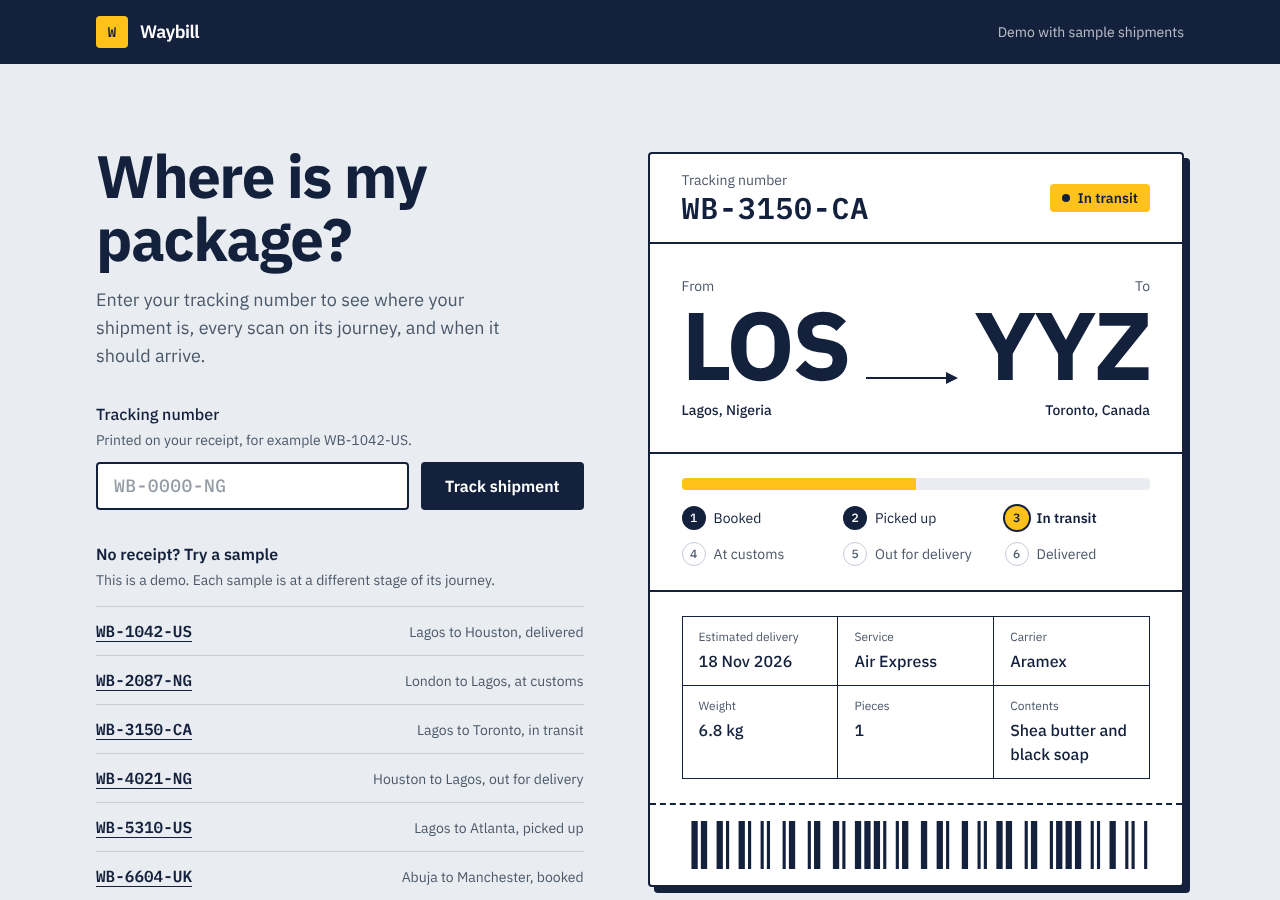
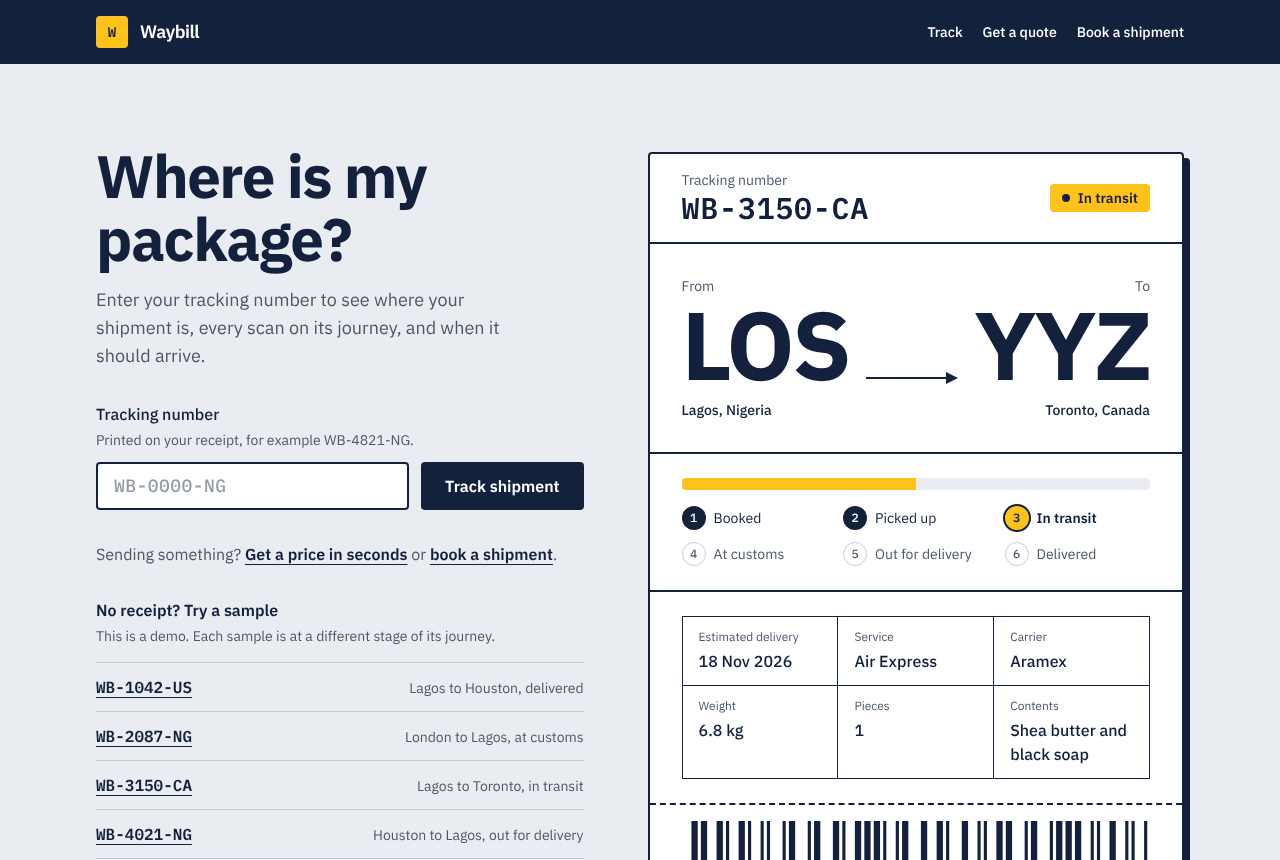
Finish Stage 6: decisions write-up, fresh screenshots and README tidy
Claude-Session: https://claude.ai/code/session_01Vmxic3mKuLojmdxFJgTNAt

diff --git a/README.md b/README.md
@@ -2,16 +2,21 @@
 
 Shipment tracking and payments for cross-border logistics between Nigeria, the US, the UK and Canada.
 
-I built Waybill as a portfolio project, drawing on how we run operations at eShopAfrica, an international logistics company in Lagos. Customers there ask one question more than any other: _where is my package?_ Waybill answers it, and over the next stages it grows into the full flow: booking, quoting, admin tools and paying with Paystack.
+I built Waybill as a portfolio project, drawing on how we run operations at eShopAfrica, an international logistics company in Lagos. Customers there ask one question more than any other: _where is my package?_ Waybill answers it, and covers the flow around it: quoting, booking, paying with Paystack and the admin tools staff use to move a parcel along.
 
 **Live demo:** [waybill-dusky.vercel.app](https://waybill-dusky.vercel.app)
-**Status:** Stage 5 of 6 complete. Customers price, book and pay online with Paystack (test mode); staff turn paid bookings into tracked shipments. All data and prices are invented.
+**Status:** Complete. Customers price, book and pay online with Paystack (test mode); staff turn paid bookings into tracked shipments. Prices are demo rates.
+**Why it is built this way:** [the decisions behind Waybill](docs/DECISIONS.md)
 
 ![Tracking page on desktop](docs/screenshots/desktop-tracking.png)
 
+| Quote calculator                                        | Tracking on a phone                                          | Booking price on a phone                                               |
+| ------------------------------------------------------- | ------------------------------------------------------------ | ---------------------------------------------------------------------- |
+| ![Quote calculator](docs/screenshots/desktop-quote.png) | ![Tracking on a phone](docs/screenshots/mobile-tracking.png) | ![Booking price on a phone](docs/screenshots/mobile-booking-price.png) |
+
 ## Try it
 
-Run the project without a database and these sample tracking numbers work, each at a different stage of its journey. The live demo uses only real bookings, so to see tracking there, book a shipment and pay with a Paystack test card.
+On the live demo, track `WB-6296-UK` (a delivered test shipment), or book one yourself and pay on Paystack's test checkout. Run the project without a database and these sample tracking numbers work instead, each at a different stage of its journey.
 
 | Tracking number | Route               | Stage            |
 | --------------- | ------------------- | ---------------- |
@@ -83,6 +88,55 @@ erDiagram
 
 Admins are added with SQL only, so there is no API an attacker could use to make themselves one. `is_admin()` and `get_shipment()` are `security definer` functions with a locked `search_path`, and tables are not exposed to the Data API unless a grant says so.
 
+## What Stage 3 adds
+
+- **An admin dashboard** at `/admin`: every shipment, with search by tracking number, city or hub code, and a filter by status.
+- **Create a shipment** at `/admin/shipments/new`. Waybill generates the tracking number (it ends in the destination country, like `WB-4821-NG`) and posts the first Booked scan in the same database transaction.
+- **A page per shipment** to post tracking updates, edit the package details, remove a scan posted by mistake, or cancel the shipment.
+- **Instant public updates.** Each change calls `updateTag` for that shipment, so the cached tracking page is fresh on the next visit.
+- **Real routes.** Air ships from Nigeria or China to any of 240+ countries; sea freight runs from Nigeria to the United States, Canada and the United Kingdom. The forms only offer valid choices, and the server checks again.
+- **Local time everywhere.** The admin picks the place of a scan; countries with several time zones (the US, Canada, China...) ask which one. The scan is stored as UTC plus that place's offset on that date, daylight saving included.
+
+### Rules the database enforces
+
+The rules live in Postgres triggers, not just the forms, so they hold for every client: the dashboard, the SQL editor or a script.
+
+| Rule                                                                    | Why                                                                        |
+| ----------------------------------------------------------------------- | -------------------------------------------------------------------------- |
+| Stages only move forward; in transit and at customs may repeat          | A parcel can pass several hubs, but never goes from customs back to pickup |
+| Scans are in time order and not in the future                           | The timeline a customer reads must make sense                              |
+| Delivered and cancelled shipments take no new scans                     | Their story is finished                                                    |
+| Scans cannot be edited; only the latest can be removed, never the first | Mistakes are undone without rewriting history                              |
+| The route, service and tracking number are fixed after booking          | Customers may already have the number                                      |
+| Shipments are cancelled, never deleted                                  | There is always a record                                                   |
+
+Rule violations raise a plain-English message with SQLSTATE `P0001`, which the dashboard shows as it is. [`supabase/tests/rules.sql`](supabase/tests/rules.sql) checks all of them against a live database and undoes every change.
+
+## What Stage 4 adds
+
+- **A quote calculator** at `/quote`. Pick the service, where it ships from and to, the weight and, optionally, the box size. The price and its breakdown update as you type.
+- **A booking form** at `/book`, prefilled from the quote. It collects the sender, receiver and package details and returns a booking reference.
+- **Bookings in the admin dashboard.** Staff review each booking, then create the shipment from it in one step (tracking number and first scan included) or decline it with a reason.
+
+### How prices work
+
+| Rule                          | Detail                                                                                                                                                                                   |
+| ----------------------------- | ---------------------------------------------------------------------------------------------------------------------------------------------------------------------------------------- |
+| Per kilo, everything in naira | Air and sea alike, so Paystack can charge every booking (Stage 5)                                                                                                                        |
+| Zones                         | UK and Ireland, Europe, US and Canada, Africa, Asia, rest of world. Each country's zone comes from its main time zone region, so all 240+ countries are covered without a hand-kept list |
+| Chargeable weight             | The bigger of the real weight and the box size (cm³ / 5,000 for air, / 6,000 for sea), rounded up to the next half kilo. Minimum 1 kg by air, 10 kg by sea                               |
+| Getting it to us              | Free drop-off at the Lagos office in Ojota (or the Guangzhou warehouse), or pickup for a fee                                                                                             |
+| Extras                        | Handling fee, then 7.5% VAT on the total                                                                                                                                                 |
+
+The rate card lives in [`src/lib/pricing/rate-card.ts`](src/lib/pricing/rate-card.ts) and its numbers are made up for this demo. `calculateQuote()` is a pure function: the browser runs it to show the price live, and the server runs it again before saving. The server never takes a price from the browser, and the admin page recomputes every booking and flags any that do not match.
+
+### Keeping bookings safe
+
+- The public creates bookings only through `submit_booking()`, a database function that checks every field and allows at most five bookings an hour per email address.
+- Bookings hold names, phone numbers and addresses, so only admins can read them. Admins can move a booking on but cannot rewrite what the customer sent.
+- The form has a hidden honeypot field and rejects submissions sent back faster than a person could fill it in.
+- [`supabase/tests/bookings.sql`](supabase/tests/bookings.sql) checks these rules against a live database and undoes every change.
+
 ## What Stage 5 adds
 
 - **Pay online with Paystack.** After booking, the customer pays on Paystack's checkout by card, bank transfer or USSD. The demo runs in Paystack **test mode**, so only test cards work and no real money moves.
@@ -123,55 +177,6 @@ sequenceDiagram
 - **Declined cards are reported.** Paystack only notifies on success, so when a booking page loads with an attempt still open, Waybill asks Paystack what happened and tells the customer their card was declined.
 - [`supabase/tests/payments.sql`](supabase/tests/payments.sql) and [`supabase/tests/refunds.sql`](supabase/tests/refunds.sql) check these rules against a live database and undo every change.
 
-## What Stage 4 adds
-
-- **A quote calculator** at `/quote`. Pick the service, where it ships from and to, the weight and, optionally, the box size. The price and its breakdown update as you type.
-- **A booking form** at `/book`, prefilled from the quote. It collects the sender, receiver and package details and returns a booking reference.
-- **Bookings in the admin dashboard.** Staff review each booking, then create the shipment from it in one step (tracking number and first scan included) or decline it with a reason.
-
-### How prices work
-
-| Rule                          | Detail                                                                                                                                                                                   |
-| ----------------------------- | ---------------------------------------------------------------------------------------------------------------------------------------------------------------------------------------- |
-| Per kilo, everything in naira | Air and sea alike, so Paystack can charge every booking (Stage 5)                                                                                                                        |
-| Zones                         | UK and Ireland, Europe, US and Canada, Africa, Asia, rest of world. Each country's zone comes from its main time zone region, so all 240+ countries are covered without a hand-kept list |
-| Chargeable weight             | The bigger of the real weight and the box size (cm³ / 5,000 for air, / 6,000 for sea), rounded up to the next half kilo. Minimum 1 kg by air, 10 kg by sea                               |
-| Getting it to us              | Free drop-off at the Lagos office in Ojota (or the Guangzhou warehouse), or pickup for a fee                                                                                             |
-| Extras                        | Handling fee, then 7.5% VAT on the total                                                                                                                                                 |
-
-The rate card lives in [`src/lib/pricing/rate-card.ts`](src/lib/pricing/rate-card.ts) and its numbers are made up for this demo. `calculateQuote()` is a pure function: the browser runs it to show the price live, and the server runs it again before saving. The server never takes a price from the browser, and the admin page recomputes every booking and flags any that do not match.
-
-### Keeping bookings safe
-
-- The public creates bookings only through `submit_booking()`, a database function that checks every field and allows at most five bookings an hour per email address.
-- Bookings hold names, phone numbers and addresses, so only admins can read them. Admins can move a booking on but cannot rewrite what the customer sent.
-- The form has a hidden honeypot field and rejects submissions sent back faster than a person could fill it in.
-- [`supabase/tests/bookings.sql`](supabase/tests/bookings.sql) checks these rules against a live database and undoes every change.
-
-## What Stage 3 adds
-
-- **An admin dashboard** at `/admin`: every shipment, with search by tracking number, city or hub code, and a filter by status.
-- **Create a shipment** at `/admin/shipments/new`. Waybill generates the tracking number (it ends in the destination country, like `WB-4821-NG`) and posts the first Booked scan in the same database transaction.
-- **A page per shipment** to post tracking updates, edit the package details, remove a scan posted by mistake, or cancel the shipment.
-- **Instant public updates.** Each change calls `updateTag` for that shipment, so the cached tracking page is fresh on the next visit.
-- **Real routes.** Air ships from Nigeria or China to any of 240+ countries; sea freight runs from Nigeria to the United States, Canada and the United Kingdom. The forms only offer valid choices, and the server checks again.
-- **Local time everywhere.** The admin picks the place of a scan; countries with several time zones (the US, Canada, China...) ask which one. The scan is stored as UTC plus that place's offset on that date, daylight saving included.
-
-### Rules the database enforces
-
-The rules live in Postgres triggers, not just the forms, so they hold for every client: the dashboard, the SQL editor or a script.
-
-| Rule                                                                    | Why                                                                        |
-| ----------------------------------------------------------------------- | -------------------------------------------------------------------------- |
-| Stages only move forward; in transit and at customs may repeat          | A parcel can pass several hubs, but never goes from customs back to pickup |
-| Scans are in time order and not in the future                           | The timeline a customer reads must make sense                              |
-| Delivered and cancelled shipments take no new scans                     | Their story is finished                                                    |
-| Scans cannot be edited; only the latest can be removed, never the first | Mistakes are undone without rewriting history                              |
-| The route, service and tracking number are fixed after booking          | Customers may already have the number                                      |
-| Shipments are cancelled, never deleted                                  | There is always a record                                                   |
-
-Rule violations raise a plain-English message with SQLSTATE `P0001`, which the dashboard shows as it is. [`supabase/tests/rules.sql`](supabase/tests/rules.sql) checks all of them against a live database and undoes every change.
-
 ## Tech stack
 
 | Area      | Choice                                                       |
@@ -180,7 +185,8 @@ Rule violations raise a plain-English message with SQLSTATE `P0001`, which the d
 | Database  | Supabase: PostgreSQL, Row Level Security, Auth               |
 | Language  | TypeScript, strict mode                                      |
 | Styling   | Tailwind CSS 4, self-hosted IBM Plex fonts                   |
-| Testing   | Vitest and React Testing Library                             |
+| Payments  | Paystack (test mode): hosted checkout, verification, webhook |
+| Testing   | Vitest, React Testing Library, Playwright, SQL rule checks   |
 | Quality   | ESLint, Prettier, GitHub Actions CI                          |
 | Hosting   | Vercel                                                       |
 
@@ -263,6 +269,9 @@ src/
   lib/supabase/           Supabase clients for the signed-in user and the public
   fonts/                  Self-hosted IBM Plex Sans and Mono
   proxy.ts                Refreshes the session and guards /admin
+e2e/
+  sample/                 Browser tests on the sample data, run on every push
+  live/                   Read-only checks on the deployed site, plus the opt-in full journey
 supabase/
   migrations/             Schema, grants, Row Level Security and the tracking rules
   tests/                  SQL checks for the tracking, booking and payment rules
@@ -273,18 +282,18 @@ The tracking logic, route rules and time zone handling are plain TypeScript with
 
 ## Roadmap
 
-| Stage | Scope                                                              | Status                      |
-| ----- | ------------------------------------------------------------------ | --------------------------- |
-| 1     | Project setup and public tracking page                             | Done                        |
-| 2     | Supabase database, Row Level Security and admin login              | Done                        |
-| 3     | Admin dashboard to create shipments and post tracking updates      | Done                        |
-| 4     | Booking form and a quote calculator by weight, route and service   | Done                        |
-| 5     | Paystack test payments with server-side verification and a webhook | Done                        |
-| 6     | End-to-end tests, final deploy and a write-up of the decisions     | Partly done: tests in place |
+| Stage | Scope                                                              | Status |
+| ----- | ------------------------------------------------------------------ | ------ |
+| 1     | Project setup and public tracking page                             | Done   |
+| 2     | Supabase database, Row Level Security and admin login              | Done   |
+| 3     | Admin dashboard to create shipments and post tracking updates      | Done   |
+| 4     | Booking form and a quote calculator by weight, route and service   | Done   |
+| 5     | Paystack test payments with server-side verification and a webhook | Done   |
+| 6     | End-to-end tests, final deploy and a write-up of the decisions     | Done   |
 
 ## About
 
-Built by [Adewale Oretuga](https://adewale-oretuga.netlify.app), a frontend engineer in Lagos working with React, Next.js and TypeScript. All shipments, names and tracking numbers in this project are invented.
+Built by [Adewale Oretuga](https://adewale-oretuga.netlify.app), a frontend engineer in Lagos working with React, Next.js and TypeScript. The sample shipments and all prices are invented, and the live demo takes only Paystack test payments.
 
 ## Licence
 

diff --git a/docs/DECISIONS.md b/docs/DECISIONS.md
@@ -1,0 +1,85 @@
+# The decisions behind Waybill
+
+The [README](../README.md) says what Waybill does. This page explains why it works that way: the choices I made, what each one cost, and the bugs that changed my mind along the way.
+
+## Where it comes from
+
+I manage operations at eShopAfrica, an international logistics company in Ojota, Lagos. Two things shaped this project more than anything else.
+
+First, the question we hear most is "where is my package?". Customers ask it on WhatsApp, on the phone and at the counter, often for a parcel that is moving exactly as planned. A clear tracking page answers it before anyone has to ask.
+
+Second, most of our customers drop parcels off in person, and many would rather not book online. So Waybill is not built around a slick checkout. It's built around the staff who turn a booking into a shipment and post every scan along the way, with the customer pages as a clear window into that work.
+
+## The tracking page
+
+**It looks like a printed waybill.** Customers already know the paper label: tracking number, big airport codes, boxes of facts. Copying that layout made the page familiar to people who have never used a tracking site.
+
+**Mobile first, for mid-range Android phones.** Most customers track on a phone, often on a slow connection. Every screen was designed at 360px first. The pages are server-rendered and cached, so a phone gets finished HTML instead of a loading spinner.
+
+**It accepts the number the way people type it.** `wb 1042 us`, `WB1042US` and `WB-1042-US` all open the same page, which then has one canonical address. Telling a customer their number is "invalid" because of a missing dash is our fault, not theirs.
+
+**Times are local to the scan.** A parcel scanned at 2:47 pm in Houston should say 2:47 pm, not the time in Lagos. Each scan is stored as UTC plus the offset of the place it happened on that date. That's one more column, but daylight saving and countries with several time zones (the US, Canada, Russia) come out right. Admins pick the city, and if the country has more than one time zone, they pick which.
+
+## The database does the enforcing
+
+**The rules live in Postgres, not just the forms.** Stages only move forward. Scans can't be in the future or out of order. Delivered and cancelled shipments are closed. Shipments are cancelled, never deleted. The admin forms check all of this for friendly messages, but the database checks it again in triggers, so the rules hold for any client: the dashboard, the SQL editor or a future script. The cost is writing each rule twice. The benefit is that no bug in the app can create a timeline a customer can't make sense of.
+
+**Errors are written for people.** Each rule raises a plain-English message with SQLSTATE `P0001`, and the dashboard shows it word for word. So "Delivered shipments cannot take new scans" comes straight from the database, with no mapping table to keep in sync.
+
+**Nobody can list the shipments.** The public can't read any table. The only public way in is one function that returns a single shipment for an exact tracking number. Tracking numbers are short, so letting anyone page through them would leak every customer's route and contents.
+
+**Admins are added with SQL only.** There's no endpoint that makes someone an admin, so there's no endpoint to attack.
+
+## Prices
+
+**The price is always worked out on the server.** `calculateQuote()` is a pure function. The browser runs it to show the price as you type, and the server runs it again before saving a booking and again before charging. A price sent from the browser is never trusted. If the stored booking no longer matches what the customer was shown, Waybill refuses to charge rather than charge a different amount.
+
+**Everything is in naira.** Paystack charges Nigerian accounts in naira, so every booking is priced in naira, including air freight from China. A real business would want the sender's currency for China shipments. I chose one currency that the payment provider handles end to end over a conversion step this demo couldn't do honestly.
+
+**Zones come from time zone data, not a hand-kept list.** Air ships to over 240 countries. Rather than type each one into a zone, Waybill uses the region of each country's main time zone (Europe, Africa, Asia and so on), with the UK, Ireland, the US and Canada handled on their own. New countries fall into a sensible zone automatically.
+
+## Payments
+
+**Two signals, both verified.** Paystack reports a payment in two ways: by redirecting the customer back, and by calling a webhook. Waybill trusts neither on its own. The redirect only says which transaction to ask about. The webhook's HMAC-SHA512 signature is checked on the raw body, and then Waybill asks Paystack's API anyway. Both paths record the result idempotently, so whichever arrives second changes nothing. The webhook is what saves a payment when a customer closes the tab before coming back.
+
+**A server key instead of the master key.** The simple route would be to give the app Supabase's service role key, which bypasses all security. I didn't want one leaked environment variable to expose every customer's details. So the app uses the public key like everyone else, and the payment functions also demand a separate server key that only Vercel holds. The database keeps only its SHA-256 hash, in a schema the public API can't see. It's more setup, but the blast radius of a leak is much smaller.
+
+**Declined cards are noticed.** Paystack only calls the webhook when a payment succeeds. Without extra work, a declined card would leave the customer staring at an unchanged page. So when a booking page loads with a payment attempt still open, Waybill asks Paystack what happened and tells the customer their card was declined and they haven't been charged.
+
+**Money is never lost track of.** If money arrives for a booking that no longer wants it, or a paid shipment is cancelled, the payment is kept and flagged "Refund needed" until staff mark it refunded. That covers a declined booking, a second payment, or a checkout tab left open overnight. Logistics businesses lose real money to refunds nobody remembered to make.
+
+**The health check reports key shapes, never keys.** While setting up I pasted two keys into each other's boxes in Vercel. The fix was a status endpoint that reports each key's length, its first four characters and whether it has stray spaces, but never the key itself. It found the mistake in seconds, and it now also tells the tests which commit is live.
+
+## Bugs that changed the code
+
+Testing every flow by hand and then with automated tests turned up bugs I wouldn't have predicted. These are the ones that taught me something.
+
+**Selects went blank after a form error.** In React 19, a form action resets the form after it runs. A controlled select on a page you reached by client-side navigation came back empty, so the country choice vanished after a failed submit. I now submit through a small `submitWithoutReset` helper that calls the action inside a transition instead.
+
+**A helper in the wrong file broke two pages.** A function the server needed lived in a file marked `"use client"`, so `/quote` and `/book` failed on the server while working fine in development. Since then I start the production build locally before every push.
+
+**The database returned an object where I expected a list.** Supabase returns a related row as an object, not an array, when the link is one to one. Every booking has at most one shipment, so a warning about a changed weight never appeared. Typing the result as either shape fixed it, and a test now covers both.
+
+**Closing Paystack lost the booking.** A customer who paid straight from the booking form and then clicked Close on Paystack landed back on an empty booking form. Their booking was saved, but it looked lost, and they might have booked twice. Paystack accepts a `cancel_action` address, so Close now always returns to the customer's own booking page.
+
+**The server and the browser disagreed about Hong Kong.** The browser tests failed on any uncaught error in the page, and that caught a hydration error on the quote and booking pages. Node's built-in country names call Hong Kong "Hong Kong SAR China", while Chrome calls it "Hong Kong". The same went for Macao, Palestine and the Falkland Islands. Because the server-rendered list didn't match, React threw away the server HTML and rebuilt both pages in every visitor's browser. The fix was a fixed table of country names that renders the same everywhere. Scans saved with the old names still work.
+
+## How it's tested
+
+The tests are layered so each layer checks what it's best at.
+
+- **Unit and component tests** (Vitest and React Testing Library, about 115) cover the pure logic: tracking number parsing, time zone conversion, every pricing rule, form validation, and Paystack signature checks.
+- **SQL rule checks** in [`supabase/tests`](../supabase/tests) run against the real database inside a transaction that is rolled back. They try the moves that must fail, such as a scan in the future, paying twice or paying the wrong amount, and confirm the database refuses them.
+- **Browser tests** (Playwright) run on every push against the production build with sample data, at desktop and phone sizes. After every deploy and every morning, a second set checks the live site without saving anything. Among other things, it confirms Paystack is still in test mode, so a live key on the demo would fail loudly.
+- **The full customer journey** (quote, book, pay on Paystack's test checkout, then the paid page) runs on the live site only when started by hand, because each run saves a real test booking.
+
+Writing tests for a database you share with real data takes care. The live checks only read, and the one test that writes is opt-in and clearly labelled.
+
+## What I would do next
+
+- **Notify customers on WhatsApp.** That's where our customers already are, and a message at each stage would answer "where is my package?" before it's asked.
+- **Pull scans from carriers.** Today staff post each scan by hand. DHL, Aramex and UPS all have tracking APIs that could post them automatically.
+- **Real rates and currencies.** Live rate cards per carrier, and pricing in the sender's currency for shipments from China.
+- **Refunds through Paystack's API.** Staff refund in the Paystack dashboard and then mark the booking. Doing it from Waybill would remove a step and a chance to forget.
+- **An audit log and staff roles.** Every admin can do everything today. A growing team would need roles and a record of who changed what.
+- **A real 404 status for missing shipments.** Pages that stream in send their status before they know a shipment is missing, so a wrong tracking number returns 200 with a `noindex` tag. That's harmless for search engines, but a correct status code would be cleaner.
